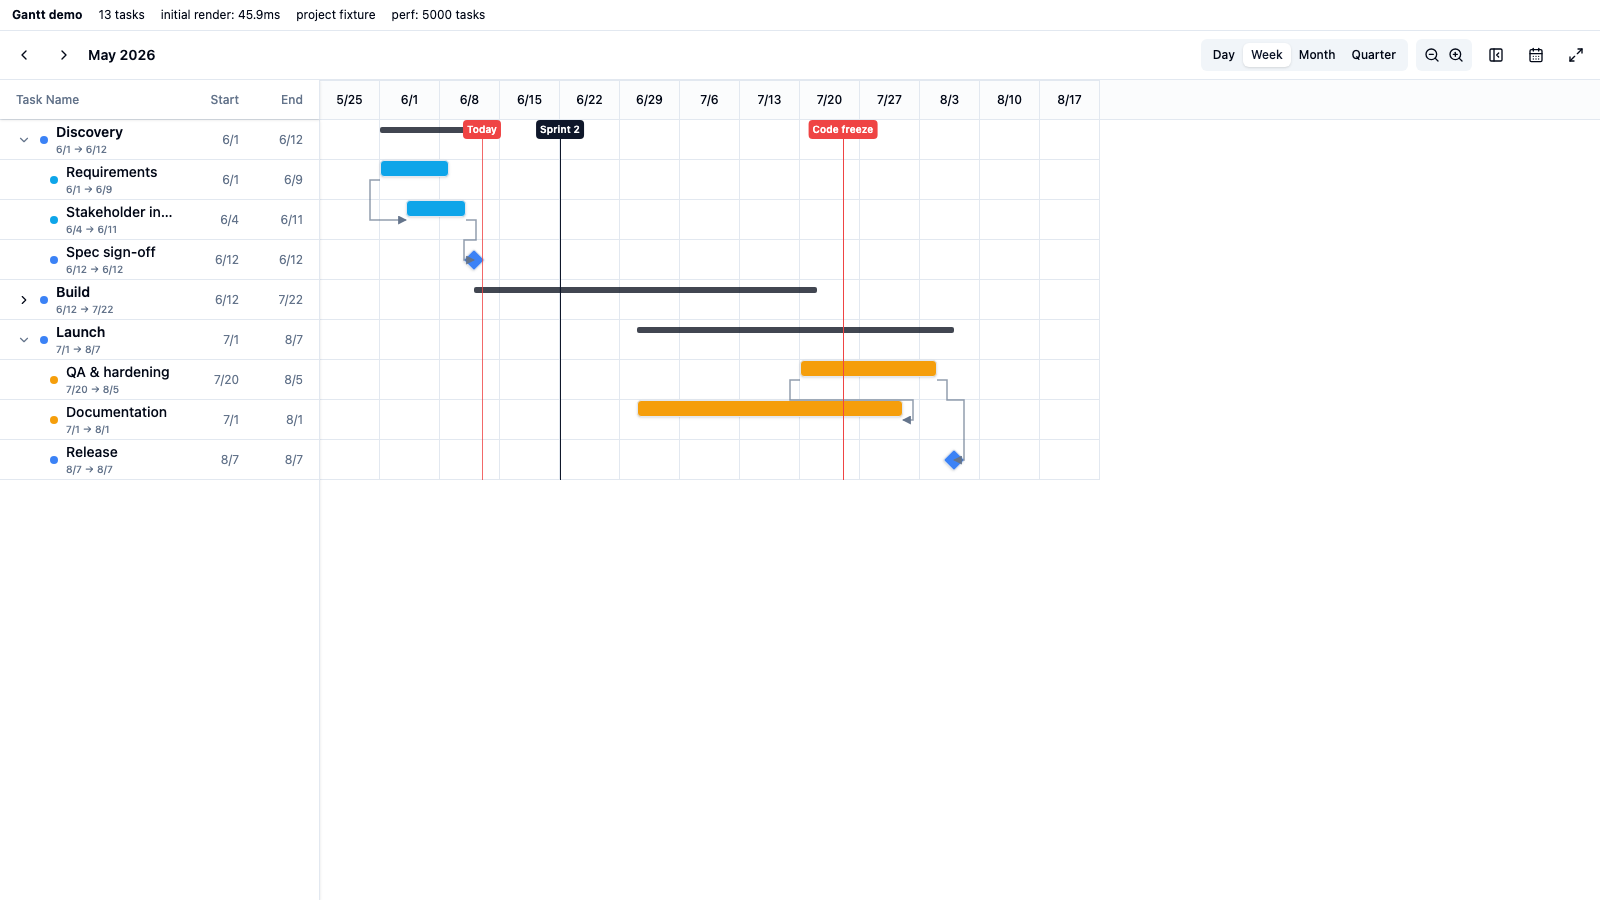
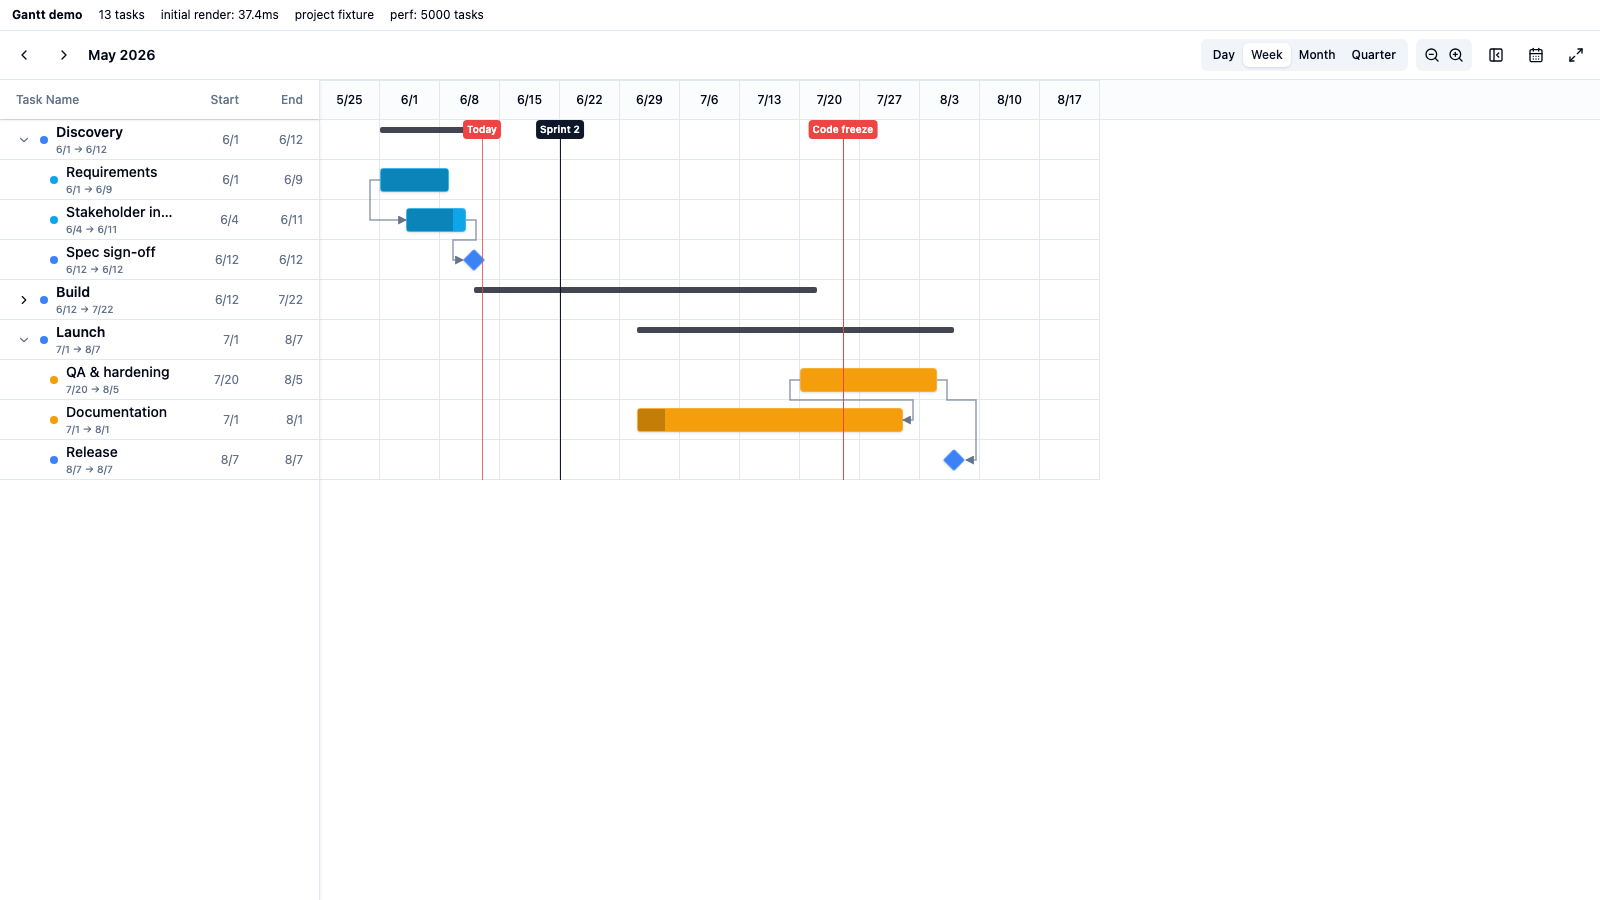
fix(gantt): pixel-accurate link anchors + remaining prebuilt-CSS visibility gaps
A pixel-level browser audit (new scripts/audit-geometry.mjs, measuring every
arrow endpoint against live DOM rects) found three real misalignments:

- Task bars used calc()-based height utilities that the prebuilt components
  CSS never emits, so bars collapsed to content height at the row top and
  every link anchor missed by ~11.5px vertically. Bars (and the drag ghost)
  now carry explicit inline top/height, exactly row-centered.
- Links into milestones anchored at the diamond's center, running the line
  underneath the shape; they now stop at the diamond's visual tip (half a
  diagonal out), both ends, including the drag rubber band.
- Links touching summary rows aimed at the row center, ~7px below the rollup
  bracket; they now anchor at the bracket's own center.

Same audit also surfaced more utilities missing from the prebuilt stylesheet:
progress fill (bg-black/20), progress knob (bg-white + ring-black/30), resize
handle hover (hover:bg-white/40), bar border (border-primary-foreground/20),
and hover emphasis (brightness-110) — all invisible in consuming apps, now
explicit inline colors or scoped CSS.

Audit: 29/29 endpoints within ±0.4px across day/week modes and an ?edge=1
fixture (backward links of all four types, summary links, milestone chains).
Tests: 63 passing (3 new geometry regression tests). verify-browser: 18/18,
screenshots regenerated.

diff --git a/packages/plugin-gantt/src/GanttView.tsx b/packages/plugin-gantt/src/GanttView.tsx
@@ -935,6 +935,17 @@ export function GanttView({
     return out;
   }, [rows]);
 
+  // Shared row geometry: bars/diamonds/brackets and link anchors must agree
+  // on these or arrows visibly miss their targets.
+  const barTop = Math.round(rowHeight * 0.2); // task bar inset from the row top
+  const barHeight = rowHeight - barTop * 2;
+  const milestoneSize = Math.max(Math.round(rowHeight * 0.4), 12);
+  // The diamond is a square rotated 45° around its center at the task date;
+  // its horizontal tips sit half a diagonal out from that center.
+  const milestoneHalfTip = (milestoneSize * Math.SQRT2) / 2;
+  const summaryBracketTop = Math.round(rowHeight * 0.18);
+  const summaryBracketHeight = 6;
+
   // Orthogonal elbow path from the predecessor anchor to the dependent
   // anchor. Anchors per link type: fs = source end → target start,
   // ss = start → start, ff = end → end, sf = start → end.
@@ -944,13 +955,23 @@ export function GanttView({
     if (!source || !target) return null;
     const s = getLiveRowStyle(source);
     const tg = getLiveRowStyle(target);
-    const sy = link.sourceIndex * rowHeight + rowHeight / 2;
-    const ty = link.targetIndex * rowHeight + rowHeight / 2;
+    // Vertical anchor: bar/diamond center, except summary rows whose slim
+    // bracket hangs near the row top.
+    const rowAnchorY = (row: GanttRow) =>
+      row.isSummary ? summaryBracketTop + summaryBracketHeight / 2 : rowHeight / 2;
+    const sy = link.sourceIndex * rowHeight + rowAnchorY(source);
+    const ty = link.targetIndex * rowHeight + rowAnchorY(target);
     const exitRight = link.type === 'fs' || link.type === 'ff';
     const enterRight = link.type === 'ff' || link.type === 'sf';
-    // Milestones anchor at their diamond center regardless of side.
-    const sx = source.isMilestone ? s.left : exitRight ? s.left + s.width : s.left;
-    const tx = target.isMilestone ? tg.left : enterRight ? tg.left + tg.width : tg.left;
+    // Milestones anchor at the diamond's visual tip (left/right corner of
+    // the rotated square), not its center — the SVG draws above the bars,
+    // so a center anchor would run the line through the diamond.
+    const sx = source.isMilestone
+      ? s.left + (exitRight ? milestoneHalfTip : -milestoneHalfTip)
+      : exitRight ? s.left + s.width : s.left;
+    const tx = target.isMilestone
+      ? tg.left + (enterRight ? milestoneHalfTip : -milestoneHalfTip)
+      : enterRight ? tg.left + tg.width : tg.left;
     const stub = 10; // horizontal clearance before turning
     const ex = sx + (exitRight ? stub : -stub);
     const ax = tx + (enterRight ? stub : -stub);
@@ -980,6 +1001,12 @@ export function GanttView({
 
   return (
     <div ref={containerRef} className={cn("flex flex-col h-full bg-background overflow-hidden min-w-0", className)}>
+      {/* Hover rules the prebuilt components CSS can't provide (alpha
+          utilities like hover:bg-white/40 are never emitted there). */}
+      <style>{`
+        .gantt-resize-handle:hover { background-color: rgba(255, 255, 255, 0.4); }
+        .gantt-bar-hover:hover { filter: brightness(1.1); }
+      `}</style>
       {/* Toolbar */}
       <div className="flex flex-col sm:flex-row items-start sm:items-center justify-between gap-2 p-2 border-b bg-card">
         <div className="flex items-center gap-2">
@@ -1449,7 +1476,7 @@ export function GanttView({
                           className="absolute rounded-[2px]"
                           /* Explicit color: bg-foreground/75 isn't emitted in
                              the prebuilt components CSS. */
-                          style={{ left: baseStyle.left, width: baseStyle.width, top: rowHeight * 0.18, height: 6, backgroundColor: 'hsl(var(--foreground) / 0.75)' }}
+                          style={{ left: baseStyle.left, width: baseStyle.width, top: summaryBracketTop, height: summaryBracketHeight, backgroundColor: 'hsl(var(--foreground) / 0.75)' }}
                           data-testid={`gantt-summary-bar-${task.id}`}
                           data-progress={Math.round(row.progress)}
                           onMouseEnter={() => setHoveredTaskId(task.id)}
@@ -1466,7 +1493,7 @@ export function GanttView({
                    }
 
                    if (row.isMilestone) {
-                     const size = Math.max(Math.round(rowHeight * 0.4), 12);
+                     const size = milestoneSize;
                      return (
                       <div
                         key={task.id}
@@ -1476,9 +1503,9 @@ export function GanttView({
                       >
                         <div
                           className={cn(
-                            "absolute rotate-45 rounded-[2px] border border-primary-foreground/20 shadow-sm select-none",
+                            "gantt-bar-hover absolute rotate-45 rounded-[2px] border shadow-sm select-none",
                             canDrag ? "cursor-grab active:cursor-grabbing" : "cursor-pointer",
-                            isDragging && "ring-2 ring-primary brightness-110 z-10",
+                            isDragging && "ring-2 ring-primary z-10",
                             isLinkTarget && "ring-2 ring-primary"
                           )}
                           style={{
@@ -1487,6 +1514,7 @@ export function GanttView({
                             width: size,
                             height: size,
                             backgroundColor: task.color || '#3b82f6',
+                            borderColor: 'hsl(var(--primary-foreground) / 0.2)',
                           }}
                           data-testid={`gantt-milestone-${task.id}`}
                           onMouseEnter={() => setHoveredTaskId(task.id)}
@@ -1521,22 +1549,29 @@ export function GanttView({
                       {/* Ghost: original position rendered faded while dragging */}
                       {isDragging && (
                         <div
-                          className="absolute top-1 sm:top-2 h-[calc(100%-8px)] sm:h-[calc(100%-16px)] rounded-sm border border-dashed border-primary/60 pointer-events-none"
-                          style={{ left: baseStyle.left, width: baseStyle.width, opacity: 0.35 }}
+                          className="absolute rounded-sm border border-dashed pointer-events-none"
+                          /* Explicit top/height/border color: calc-based and
+                             alpha utilities aren't emitted in the prebuilt
+                             components CSS, and link anchors assume a
+                             row-centered bar. */
+                          style={{ left: baseStyle.left, width: baseStyle.width, top: barTop, height: barHeight, opacity: 0.35, borderColor: 'hsl(var(--primary) / 0.6)' }}
                           aria-hidden="true"
                         />
                       )}
                       <div
                         className={cn(
-                          "absolute top-1 sm:top-2 h-[calc(100%-8px)] sm:h-[calc(100%-16px)] rounded-sm bg-primary border border-primary-foreground/20 shadow-sm hover:brightness-110 flex items-center px-2 group select-none",
+                          "gantt-bar-hover absolute rounded-sm bg-primary border shadow-sm flex items-center px-2 group select-none",
                           canDrag ? "cursor-grab active:cursor-grabbing" : "cursor-pointer",
-                          isDragging && "ring-2 ring-primary brightness-110 z-10",
+                          isDragging && "ring-2 ring-primary z-10",
                           isLinkTarget && "ring-2 ring-primary"
                         )}
                         style={{
                           left: liveStyle.left,
                           width: liveStyle.width,
-                          backgroundColor: task.color || '#3b82f6'
+                          top: barTop,
+                          height: barHeight,
+                          backgroundColor: task.color || '#3b82f6',
+                          borderColor: 'hsl(var(--primary-foreground) / 0.2)'
                         }}
                         data-testid={`gantt-task-bar-${task.id}`}
                         onMouseEnter={() => setHoveredTaskId(task.id)}
@@ -1558,7 +1593,7 @@ export function GanttView({
                         {canDrag && liveStyle.width >= 14 && (
                           <>
                             <div
-                              className="absolute left-0 top-0 bottom-0 w-1.5 cursor-ew-resize hover:bg-white/40"
+                              className="gantt-resize-handle absolute left-0 top-0 bottom-0 w-1.5 cursor-ew-resize"
                               data-testid={`gantt-task-resize-left-${task.id}`}
                               onPointerDown={(e) => {
                                 if (e.button !== 0) return;
@@ -1567,7 +1602,7 @@ export function GanttView({
                               onClick={(e) => e.stopPropagation()}
                             />
                             <div
-                              className="absolute right-0 top-0 bottom-0 w-1.5 cursor-ew-resize hover:bg-white/40"
+                              className="gantt-resize-handle absolute right-0 top-0 bottom-0 w-1.5 cursor-ew-resize"
                               data-testid={`gantt-task-resize-right-${task.id}`}
                               onPointerDown={(e) => {
                                 if (e.button !== 0) return;
@@ -1578,11 +1613,13 @@ export function GanttView({
                           </>
                         )}
 
-                        {/* Progress fill — follows the handle live while dragging */}
+                        {/* Progress fill — follows the handle live while dragging.
+                            Explicit color: bg-black/20 isn't emitted in the
+                            prebuilt components CSS. */}
                         {liveProgress > 0 && (
                           <div
-                            className="absolute left-0 top-0 bottom-0 bg-black/20 rounded-l-sm pointer-events-none"
-                            style={{ width: `${liveProgress}%` }}
+                            className="absolute left-0 top-0 bottom-0 rounded-l-sm pointer-events-none"
+                            style={{ width: `${liveProgress}%`, backgroundColor: 'rgba(0, 0, 0, 0.2)' }}
                           />
                         )}
 
@@ -1611,7 +1648,12 @@ export function GanttView({
                             }}
                             onClick={(e) => e.stopPropagation()}
                           >
-                            <div className="h-2.5 w-2.5 rounded-full bg-white shadow ring-1 ring-black/30" />
+                            {/* Explicit colors: bg-white / ring-black-30 aren't
+                                emitted in the prebuilt components CSS. */}
+                            <div
+                              className="h-2.5 w-2.5 rounded-full"
+                              style={{ backgroundColor: '#fff', boxShadow: '0 0 0 1px rgba(0, 0, 0, 0.3), 0 1px 2px rgba(0, 0, 0, 0.25)' }}
+                            />
                           </div>
                         )}
 
@@ -1726,7 +1768,7 @@ export function GanttView({
                       const si = rows.findIndex((r) => String(r.task.id) === String(linkDrag.sourceId));
                       if (si < 0) return null;
                       const s = getLiveRowStyle(rows[si]);
-                      const sx = rows[si].isMilestone ? s.left : s.left + s.width;
+                      const sx = rows[si].isMilestone ? s.left + milestoneHalfTip : s.left + s.width;
                       const sy = si * rowHeight + rowHeight / 2;
                       return (
                         <path

diff --git a/packages/plugin-gantt/src/GanttView.tree.test.tsx b/packages/plugin-gantt/src/GanttView.tree.test.tsx
@@ -140,7 +140,7 @@ describe('GanttView task hierarchy', () => {
     expect(rows.length).toBe(2);
   });
 
-  it('links anchor at the milestone diamond center', () => {
+  it('links anchor at the milestone diamond tip, not its center', () => {
     const { container } = renderView([
       makeTask('a', '2024-06-05T00:00:00.000Z', '2024-06-08T00:00:00.000Z'),
       makeTask('m', '2024-06-12T00:00:00.000Z', '2024-06-12T00:00:00.000Z', { dependencies: ['a'] }),
@@ -150,7 +150,49 @@ describe('GanttView task hierarchy', () => {
     const diamond = container.querySelector('[data-testid="gantt-milestone-m"]') as HTMLElement;
     const size = parseFloat(diamond.style.width);
     const center = parseFloat(diamond.style.left) + size / 2;
+    // The rotated square's visual tip sits half a diagonal left of center —
+    // an fs arrow must stop there instead of running under the diamond.
+    const leftTip = center - (size * Math.SQRT2) / 2;
     const nums = (path.getAttribute('d') || '').match(/-?\d+(\.\d+)?/g)!.map(Number);
-    expect(nums[nums.length - 2]).toBeCloseTo(center, 0);
+    expect(nums[nums.length - 2]).toBeCloseTo(leftTip, 0);
+  });
+
+  it('positions task bars with explicit inline top/height centered in the row', () => {
+    // calc()-based height utilities aren't emitted in the prebuilt components
+    // CSS, so the bar must carry inline geometry — and the link anchors
+    // assume the bar is vertically centered (rowHeight/2).
+    const { container } = renderView(FAMILY);
+    const bar = container.querySelector('[data-testid="gantt-task-bar-solo"]') as HTMLElement;
+    const top = parseFloat(bar.style.top);
+    const height = parseFloat(bar.style.height);
+    expect(top).toBeGreaterThan(0);
+    expect(height).toBeGreaterThan(0);
+    // Centered: inset above equals inset below, and the center is rowHeight/2.
+    const row = bar.parentElement as HTMLElement;
+    const rowHeight = parseFloat(row.style.height);
+    expect(top + height / 2).toBeCloseTo(rowHeight / 2, 5);
+  });
+
+  it('anchors links into summary rows at the bracket, not the row center', () => {
+    const { container } = renderView([
+      ...FAMILY.slice(0, 3),
+      makeTask('after', '2024-06-16T00:00:00.000Z', '2024-06-18T00:00:00.000Z', { dependencies: ['p'] }),
+    ]);
+    const path = container.querySelector('[data-testid="gantt-link-p-after"]') as SVGPathElement;
+    expect(path).toBeTruthy();
+    const bracket = container.querySelector('[data-testid="gantt-summary-bar-p"]') as HTMLElement;
+    const bracketCenterY = parseFloat(bracket.style.top) + parseFloat(bracket.style.height) / 2;
+    const nums = (path.getAttribute('d') || '').match(/-?\d+(\.\d+)?/g)!.map(Number);
+    // First point: M sx sy — the summary is row 0, so sy is the bracket center.
+    expect(nums[1]).toBeCloseTo(bracketCenterY, 0);
+  });
+
+  it('renders the progress fill with an explicit inline color', () => {
+    const { container } = renderView(FAMILY);
+    const bar = container.querySelector('[data-testid="gantt-task-bar-c2"]') as HTMLElement;
+    const fill = bar.querySelector('div.pointer-events-none') as HTMLElement;
+    expect(fill).toBeTruthy();
+    expect(fill.style.width).toBe('50%');
+    expect(fill.style.backgroundColor).toBe('rgba(0, 0, 0, 0.2)');
   });
 });

diff --git a/packages/plugin-gantt/demo/main.tsx b/packages/plugin-gantt/demo/main.tsx
@@ -34,6 +34,32 @@ function projectFixture(): GanttTask[] {
   ];
 }
 
+/**
+ * Geometry edge cases (?edge=1): backward links of every type, links into
+ * summary rows and milestones, and tight adjacent-row hops — the shapes most
+ * likely to expose anchor/elbow misalignment.
+ */
+function edgeFixture(): GanttTask[] {
+  return [
+    { id: 's1', title: 'Group A', start: d('2026-06-01'), end: d('2026-06-20'), progress: 0, parent: null },
+    { id: 'a1', title: 'Early', start: d('2026-06-01'), end: d('2026-06-06'), progress: 50, parent: 's1' },
+    { id: 'a2', title: 'Late fs←back', start: d('2026-06-10'), end: d('2026-06-16'), progress: 0, parent: 's1', dependencies: [{ id: 'a3', type: 'fs' }] },
+    { id: 'a3', title: 'Mid', start: d('2026-06-04'), end: d('2026-06-08'), progress: 20, parent: 's1', dependencies: [{ id: 'a1', type: 'ss' }] },
+    { id: 'a4', title: 'Backward ss', start: d('2026-06-02'), end: d('2026-06-07'), progress: 0, parent: 's1', dependencies: [{ id: 'a2', type: 'ss' }] },
+
+    { id: 's2', title: 'Group B', start: d('2026-06-05'), end: d('2026-06-25'), progress: 0, parent: null },
+    { id: 'b1', title: 'Backward ff', start: d('2026-06-05'), end: d('2026-06-09'), progress: 0, parent: 's2', dependencies: [{ id: 'a2', type: 'ff' }] },
+    { id: 'b2', title: 'Backward sf', start: d('2026-06-18'), end: d('2026-06-25'), progress: 0, parent: 's2', dependencies: [{ id: 'b1', type: 'sf' }] },
+    { id: 'm3', title: 'Gate', start: d('2026-06-12'), end: d('2026-06-12'), progress: 0, parent: 's2', type: 'milestone', dependencies: ['b1'] },
+    { id: 'm4', title: 'Ship', start: d('2026-06-20'), end: d('2026-06-20'), progress: 0, parent: 's2', type: 'milestone', dependencies: [{ id: 'm3', type: 'fs' }] },
+
+    // Links touching summary rows (rollup brackets) — y anchor must hit the bracket.
+    { id: 's3', title: 'Group C (after A)', start: d('2026-06-21'), end: d('2026-06-28'), progress: 0, parent: null, dependencies: [{ id: 's1', type: 'fs' }] },
+    { id: 'c1', title: 'Adjacent hop', start: d('2026-06-21'), end: d('2026-06-24'), progress: 0, parent: 's3' },
+    { id: 'c2', title: 'Next row', start: d('2026-06-24'), end: d('2026-06-28'), progress: 0, parent: 's3', dependencies: ['c1'] },
+  ];
+}
+
 function perfFixture(n: number): GanttTask[] {
   const tasks: GanttTask[] = [];
   const groupSize = 10;
@@ -76,9 +102,10 @@ const markers: GanttMarker[] = [
 function App() {
   const params = new URLSearchParams(window.location.search);
   const perf = Number(params.get('perf') || 0);
+  const edge = params.has('edge');
   const t0 = React.useMemo(() => performance.now(), []);
   const [tasks, setTasks] = React.useState<GanttTask[]>(() =>
-    perf > 0 ? perfFixture(perf) : projectFixture()
+    perf > 0 ? perfFixture(perf) : edge ? edgeFixture() : projectFixture()
   );
   const [renderMs, setRenderMs] = React.useState<number | null>(null);
   React.useEffect(() => {

diff --git a/packages/plugin-gantt/docs/verification/README.md b/packages/plugin-gantt/docs/verification/README.md
@@ -45,6 +45,25 @@ node packages/plugin-gantt/scripts/verify-browser.mjs
 - ![Rubber band mid-drag](05-link-create-drag.png)
 - ![New dependency created](06-link-created.png)
 
+### 4b. Pixel-level arrow geometry audit
+
+[`scripts/audit-geometry.mjs`](../../scripts/audit-geometry.mjs) parses every
+arrow's SVG path and measures its endpoints against the live DOM rects of the
+source/target bars, across three scenarios (project fixture in day and week
+mode, plus a `?edge=1` fixture with backward links of every type, links into
+summary rows, and milestone→milestone chains). **All 29 measured endpoints are
+within ±0.4 px** of the expected anchors:
+
+- task bars: edge × vertical center (bars carry explicit inline `top`/`height`
+  so they are exactly row-centered),
+- milestones: the diamond's visual tip (half a diagonal out from center),
+- summary rows: the rollup bracket's own center, not the row center.
+
+Zoomed clips of each arrow's target anchor are saved under
+[`geometry/`](geometry/), e.g. an `fs` arrow meeting a milestone tip:
+
+![fs arrow into a milestone tip](geometry/project-day-mode-fs-t2-m1-end.png)
+
 ### 5. Performance — 5,000 tasks (`?perf=5000`)
 
 | Metric | Result |
